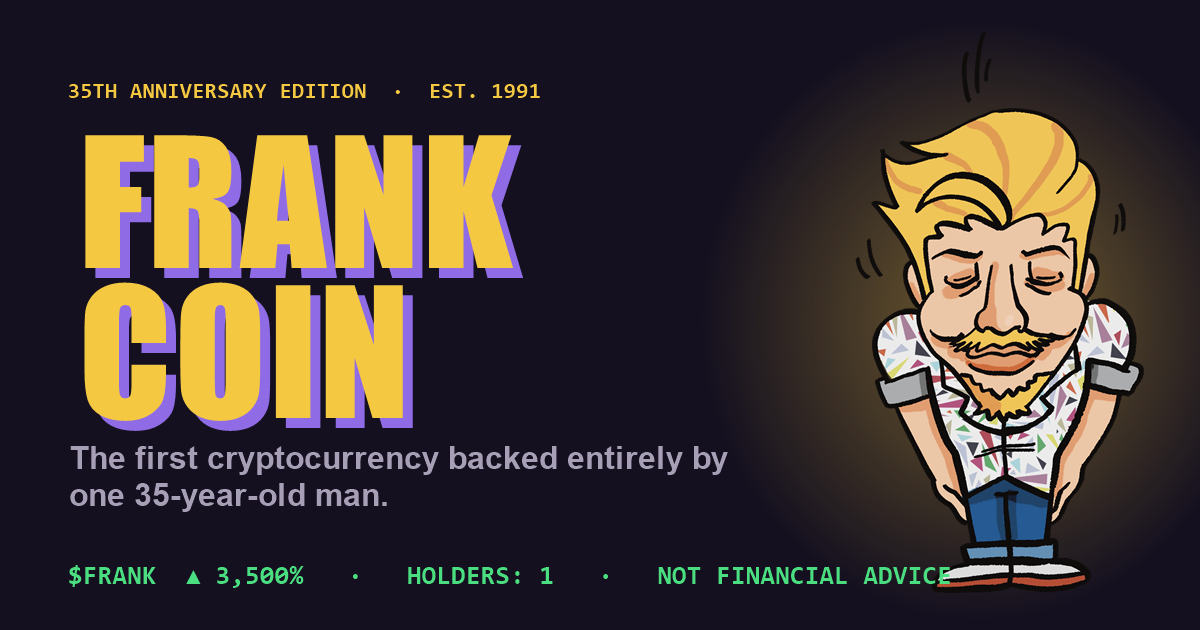
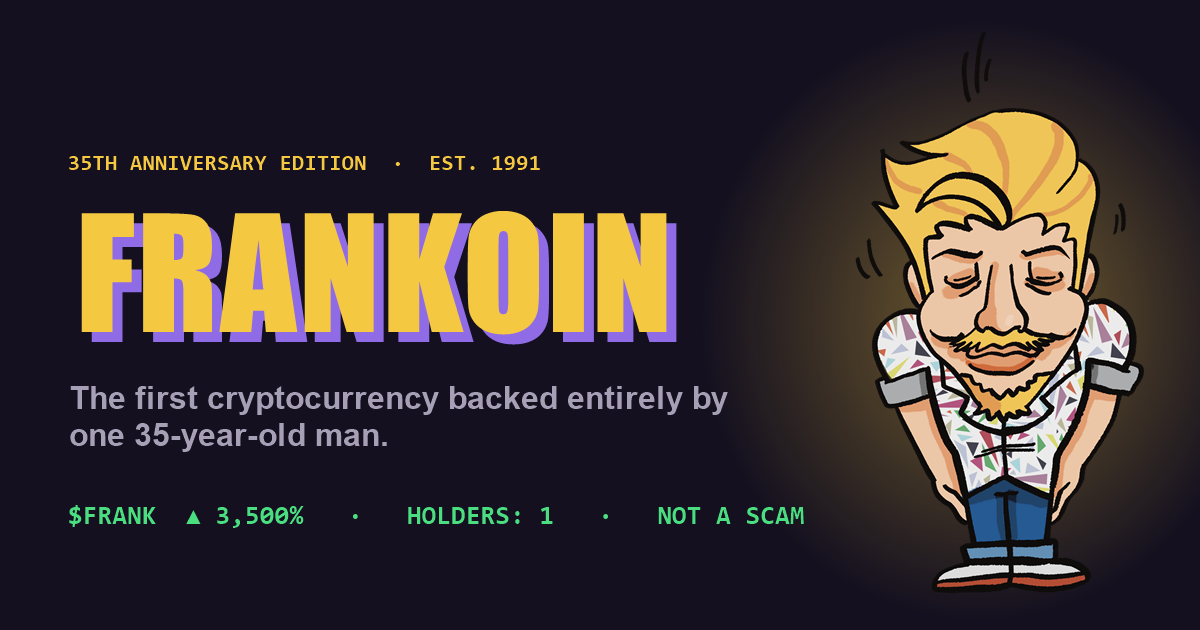
Rename the coin to Frankoin
Titles, meta tags, logo, hero headline, copy, README and the link preview
image now say Frankoin. Ticker symbol stays FRANK.

diff --git a/index.html b/index.html
@@ -3,10 +3,10 @@
 <head>
 <meta charset="utf-8">
 <meta name="viewport" content="width=device-width,initial-scale=1,viewport-fit=cover">
-<title>Frank Coin ($FRANK)</title>
+<title>Frankoin ($FRANK)</title>
 <meta name="description" content="The first cryptocurrency backed entirely by one 35-year-old man. Presale ends on Frank's birthday.">
 <meta property="og:type" content="website">
-<meta property="og:title" content="Frank Coin ($FRANK) — 35th Anniversary Edition">
+<meta property="og:title" content="Frankoin ($FRANK) — 35th Anniversary Edition">
 <meta property="og:description" content="The first cryptocurrency backed entirely by one 35-year-old man. Fully decentralized, except for the part where it's just Frank.">
 <meta property="og:url" content="https://lwilliams027.github.io/frank-coin/">
 <meta property="og:image" content="https://lwilliams027.github.io/frank-coin/assets/og.png">
@@ -21,7 +21,7 @@
 
 <header class="nav" id="nav">
   <div class="wrap nav-inner">
-    <a class="brand" href="#top" aria-label="Frank Coin home"><span class="coin" aria-hidden="true"></span>FRANK<b>COIN</b></a>
+    <a class="brand" href="#top" aria-label="Frankoin home"><span class="coin" aria-hidden="true"></span>FRANK<b>OIN</b></a>
     <nav class="nav-links" aria-label="Sections">
       <a href="#about">Whitepaper</a>
       <a href="#chart">Chart</a>
@@ -59,7 +59,7 @@
   <section class="wrap hero">
     <div class="hero-copy">
       <p class="eyebrow" data-hero>35th Anniversary Edition · Est. 1991</p>
-      <h1 class="display"><span class="w">Frank</span> <span class="w">Coin</span></h1>
+      <h1 class="display"><span class="w">Frankoin</span></h1>
       <p class="lede" data-hero>The first cryptocurrency backed entirely by <strong>one 35-year-old man.</strong> Fully decentralized, except for the part where it's just Frank.</p>
       <div class="cta-row" data-hero>
         <a class="btn btn-gold btn-lg" href="gotcha.html" data-wiggle>Get $FRANK now</a>
@@ -194,7 +194,7 @@
   <section class="wrap" id="legit">
     <p class="eyebrow" data-rise>Trust &amp; safety</p>
     <h2 class="display" data-rise>Definitely not a scam.</h2>
-    <p class="sub" data-rise>We ran Frank Coin through the official scam checklist. It passed every item. We also wrote the checklist.</p>
+    <p class="sub" data-rise>We ran Frankoin through the official scam checklist. It passed every item. We also wrote the checklist.</p>
 
     <div class="notscam" data-rise>
       <div class="seal-wrap" id="sealWrap">
@@ -219,7 +219,7 @@
     </div>
 
     <ul class="check" id="checklist">
-      <li class="head" data-rise><span>Red flag</span><span>Frank Coin</span><span>Verdict</span></li>
+      <li class="head" data-rise><span>Red flag</span><span>Frankoin</span><span>Verdict</span></li>
       <li data-rise><span class="flag">Promises guaranteed returns</span><span class="ans">Promises nothing. Frank personally promises dinner.</span><span class="verdict">Not a scam</span></li>
       <li data-rise><span class="flag">Pressures you to buy right now</span><span class="ans">The presale ends on his birthday. That's not pressure, that's a calendar.</span><span class="verdict">Not a scam</span></li>
       <li data-rise><span class="flag">Anonymous team</span><span class="ans">The team is one guy. There's a drawing of him above. He's bowing.</span><span class="verdict">Not a scam</span></li>
@@ -262,7 +262,7 @@
   <div class="wrap">
     <p>$FRANK is not a cryptocurrency, security, token, financial instrument, or investment of any kind. It is a 35-year-old man. Nothing on this page is financial advice, and the chart is drawn from memory. Past performance of Frank is not indicative of future Frank.</p>
     <p>© 2026 Frank. All 35 years reserved. Not a scam.</p>
-    <p class="fineprint"><strong>Fine print.</strong> You were asked not to read this. By continuing, you acknowledge that Frank Coin is not a coin, that Frank is a person, and that the "presale" is a birthday. No tokens will be issued. No tokens exist. The contract address above is the word FRANK followed by some zeros. The chart was drawn by Frank with a mouse. Frank's mom is not a licensed auditor. Nothing on this page is a scam, because a scam requires you to believe it, and you have now read the fine print. Stop reading. Go back up and click the button.</p>
+    <p class="fineprint"><strong>Fine print.</strong> You were asked not to read this. By continuing, you acknowledge that Frankoin is not a coin, that Frank is a person, and that the "presale" is a birthday. No tokens will be issued. No tokens exist. The contract address above is the word FRANK followed by some zeros. The chart was drawn by Frank with a mouse. Frank's mom is not a licensed auditor. Nothing on this page is a scam, because a scam requires you to believe it, and you have now read the fine print. Stop reading. Go back up and click the button.</p>
     <p class="credit">Built by Williams System L.L.C.</p>
   </div>
 </footer>
@@ -372,7 +372,7 @@
     var line = pts.map(function (p, i) { return (i ? 'L' : 'M') + X(p.year).toFixed(1) + ' ' + Y(p.v).toFixed(1); }).join(' ');
     var area = line + ' L' + X(END).toFixed(1) + ' ' + Y(0).toFixed(1) + ' L' + X(START).toFixed(1) + ' ' + Y(0).toFixed(1) + ' Z';
 
-    var svg = '<svg viewBox="0 0 ' + W + ' ' + H + '" id="priceSvg"' + (compact ? ' class="compact"' : '') + ' role="img" aria-label="Frank Coin price from 1991 to 2026, rising from zero dollars to 0.0000035 dollars">';
+    var svg = '<svg viewBox="0 0 ' + W + ' ' + H + '" id="priceSvg"' + (compact ? ' class="compact"' : '') + ' role="img" aria-label="Frankoin price from 1991 to 2026, rising from zero dollars to 0.0000035 dollars">';
     svg += '<defs><linearGradient id="areaFill" x1="0" y1="0" x2="0" y2="1"><stop offset="0" stop-color="#4ADE80" stop-opacity=".28"/><stop offset="1" stop-color="#4ADE80" stop-opacity="0"/></linearGradient></defs>';
     yTicks.forEach(function (g) {
       svg += '<line class="grid" x1="' + padL + '" x2="' + (W - padR) + '" y1="' + Y(g).toFixed(1) + '" y2="' + Y(g).toFixed(1) + '"/>';

diff --git a/gotcha.html b/gotcha.html
@@ -3,10 +3,10 @@
 <head>
 <meta charset="utf-8">
 <meta name="viewport" content="width=device-width,initial-scale=1,viewport-fit=cover">
-<title>Pay for my Scam — Frank Coin</title>
-<meta name="description" content="Okay, I'm just joking. There's no Frank Coin. But here's my PayPal if you wanna give me a birthday gift. Not a scam.">
+<title>Pay for my Scam — Frankoin</title>
+<meta name="description" content="Okay, I'm just joking. There's no Frankoin. But here's my PayPal if you wanna give me a birthday gift. Not a scam.">
 <meta property="og:type" content="website">
-<meta property="og:title" content="Frank Coin ($FRANK) — 35th Anniversary Edition">
+<meta property="og:title" content="Frankoin ($FRANK) — 35th Anniversary Edition">
 <meta property="og:description" content="The first cryptocurrency backed entirely by one 35-year-old man. Fully decentralized, except for the part where it's just Frank.">
 <meta property="og:url" content="https://lwilliams027.github.io/frank-coin/gotcha.html">
 <meta property="og:image" content="https://lwilliams027.github.io/frank-coin/assets/og.png">
@@ -26,7 +26,7 @@
     <img class="gift-mascot" id="mascot" src="assets/frank.png" alt="Frank, bowing" width="720" height="1349">
     <p class="eyebrow" data-rv>Okay, okay. I'm just joking.</p>
     <h1 class="display" data-rv>Pay for my Scam</h1>
-    <p class="lede" data-rv>There's no Frank Coin. There's just Frank, and he's 35 now. But here's a link to my <span id="payWord">PayPal</span> if you wanna give me a birthday gift. No pressure. You clicking that button was already very funny to me. This is not a scam. It's a birthday. Legally different.</p>
+    <p class="lede" data-rv>There's no Frankoin. There's just Frank, and he's 35 now. But here's a link to my <span id="payWord">PayPal</span> if you wanna give me a birthday gift. No pressure. You clicking that button was already very funny to me. This is not a scam. It's a birthday. Legally different.</p>
     <div class="pay-row">
       <a class="btn btn-gold btn-lg" id="paypalBtn" data-rv href="#">Send a gift on PayPal</a>
       <a class="btn btn-teal btn-lg" id="venmoBtn" data-rv href="#" hidden>Send a gift on Venmo</a>

diff --git a/assets/style.css b/assets/style.css
@@ -1,4 +1,4 @@
-/* Frank Coin — shared styles */
+/* Frankoin — shared styles */
 :root{
   --bg:#14101f; --bg-2:#1d1730; --bg-3:#282047;
   --ink:#F7F1E6; --muted:#A79FB5; --line:rgba(247,241,230,.13);
@@ -64,7 +64,7 @@ h2.display{font-size:clamp(34px,5.5vw,60px);color:var(--ink);text-shadow:.06em .
 
 /* hero */
 .hero{display:grid;grid-template-columns:1.05fr .95fr;gap:32px;align-items:center;padding-block:clamp(32px,6vw,72px) clamp(24px,4vw,48px)}
-.hero h1{font-size:clamp(64px,12vw,148px);color:var(--gold);text-shadow:.05em .05em 0 var(--purple),.1em .1em 0 rgba(0,0,0,.35)}
+.hero h1{font-size:clamp(50px,9vw,112px);white-space:nowrap;color:var(--gold);text-shadow:.05em .05em 0 var(--purple),.1em .1em 0 rgba(0,0,0,.35)}
 .hero h1 .w{display:inline-block}
 .hero-copy,.hero-art{min-width:0}
 .hero .lede{margin:20px 0 28px}

diff --git a/README.md b/README.md
@@ -1,4 +1,4 @@
-# Frank Coin ($FRANK)
+# Frankoin ($FRANK)
 
 A joke meme-coin landing page for Frank's 35th birthday. Every "Buy $FRANK" button leads to
 `gotcha.html`, which admits there is no coin and links to Frank's PayPal for birthday gifts.
